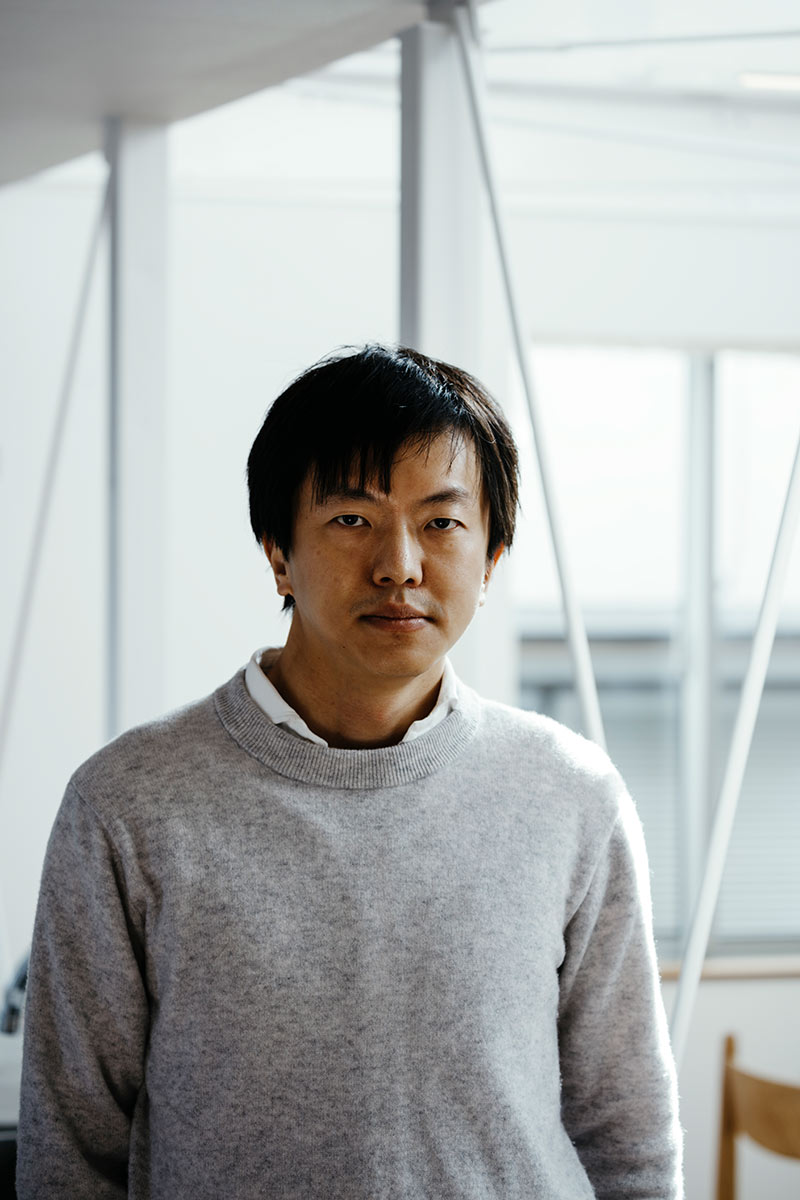
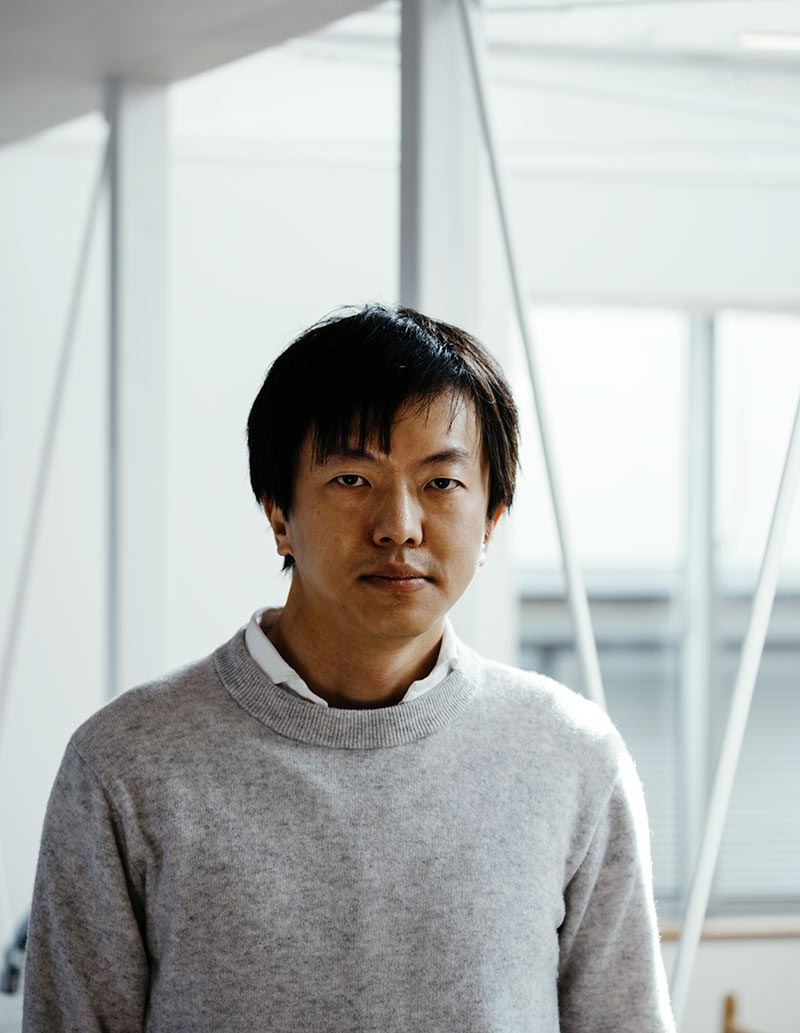
Update

diff --git a/src/js/components/profile.tsx b/src/js/components/profile.tsx
@@ -17,12 +17,13 @@ const ProfileOuter = styled.div`
   flex: 1 1 0;
   display: flex;
   flex-direction: column;
+  margin-right: 0.75rem;
 `
 
 const Name = styled.div`
   font-size: 1.25rem;
   align-self: flex-start;
-  font-weight: 700;
+  font-weight: 500;
   &::after {
     content: '';
     display: block;
@@ -64,11 +65,12 @@ const Detail = styled.div`
 `
 
 const ProfileImageOuter = styled.div`
-  max-width: 14rem;
-  margin-right: 1.5rem;
+  max-width: 17rem;
+  margin-top: 3rem;
   @media (max-width: 40rem) {
     margin-right: 0;
     margin-bottom: 1.5rem;
+    margin-top: 0;
     max-width: none;
     max-height: 20rem;
     height: 25rem;
@@ -77,6 +79,7 @@ const ProfileImageOuter = styled.div`
     width: 100%;
     height: 100%;
     object-fit: cover;
+    object-position: center 20%;
     @media (max-width: 40rem) {
     }
   }
@@ -87,7 +90,7 @@ export const Profile: FunctionComponent = () => {
   return <Outer>
     <ProfileOuter>
       <Name>
-        <Text ja="胡　実　KOMINORU" />
+        <Text ja="胡　実　KO MINORU" />
       </Name>
       <Role>
         <Text ja="代表 / 一級建築士" en="CEO / Architect" />

diff --git a/src/js/components/root-css.tsx b/src/js/components/root-css.tsx
@@ -6,11 +6,11 @@ import { Language, useLanguage } from '../hooks/use-language'
 const CSS = createGlobalStyle<{language: Language}>`
   :root {
     font-family: 'Noto Sans JP', sans-serif;
-    font-weight: 300;
+    font-weight: 100;
     --gray: #e6e6e6;
-    --brown: #241e18;
-    --dark-brown: #14110e;
-    --darkest-brown: #18130e;
+    --brown: #413d3a;
+    --dark-brown: #332e28;
+    --darkest-brown: #f0f0f0;
     --header-height: 3rem;
     --text-color: var(--brown);
     --hover-text-color: #6e6861;
@@ -60,7 +60,7 @@ export const RootCSS: FunctionComponent = () => {
   useEffect(() => {
     const link = document.createElement('link')
     link.rel = 'stylesheet'
-    link.href = 'https://fonts.googleapis.com/css2?family=Cabin:wght@400&family=Noto+Sans+JP:wght@300;400;500;700&display=swap'
+    link.href = 'https://fonts.googleapis.com/css2?family=Cabin:wght@400&family=Noto+Sans+JP:wght100;300;400;500;700&display=swap'
     document.head.appendChild(link)
     return () => {
       document.head.removeChild(link)

diff --git a/src/js/components/image-slider.tsx b/src/js/components/image-slider.tsx
@@ -37,7 +37,7 @@ const SwiperOuter = styled.div`
     box-sizing: border-box;
     .swiper-pagination-bullet {
       display: block;
-      color: var(--inverted-text-color);
+      color: var(--brown);
       opacity: 1;
       margin: -0.5rem 0.175rem;
       width: 1.75rem;
@@ -91,7 +91,7 @@ const ControllButton = styled.div`
   pointer-events: auto;
   transition: all 0.4s;
   cursor: pointer;
-  color: white;
+  color: var(--brown);
   &:hover {
     opacity: 0.5;
   }

diff --git a/src/js/components/works.tsx b/src/js/components/works.tsx
@@ -8,7 +8,7 @@ const Outer = styled.div`
   display: grid;
   grid-template-columns: repeat(4, 1fr);
   gap: 0.25rem;
-  background-color: var(--dark-brown);
+  background-color: var(--darkest-brown);
   @media (max-width: 120rem) {
     grid-template-columns: repeat(3, 1fr);
   }

diff --git a/src/js/components/concept.tsx b/src/js/components/concept.tsx
@@ -33,7 +33,7 @@ const ConceptItemInner = styled.div`
 export const ConceptTitle = styled.div`
   color: var(--inverted-text-color);
   align-self: flex-start;
-  font-weight: 700;
+  font-weight: 500;
   font-size: 1.175rem;
   &::after {
     content: '';

diff --git a/src/js/components/footer.tsx b/src/js/components/footer.tsx
@@ -20,7 +20,7 @@ const ContactLink = styled.div`
   max-width: 24rem;
   font-size: 1.25rem;
   font-family: 'Cabin';
-  font-weight: 700;
+  font-weight: 500;
   border: calc(1rem / 16) solid currentcolor;
   width: 100%;
   text-align: center;

diff --git a/src/js/components/work.tsx b/src/js/components/work.tsx
@@ -33,7 +33,7 @@ const DetailOuter = styled.div`
 
 const Name = styled.div`
   font-size: 1.25rem;
-  font-weight: 700;
+  font-weight: 500;
   line-height: 1.5;
   margin-top: calc(1.25rem * 0.5 / 2 * -1);
   &::after {
